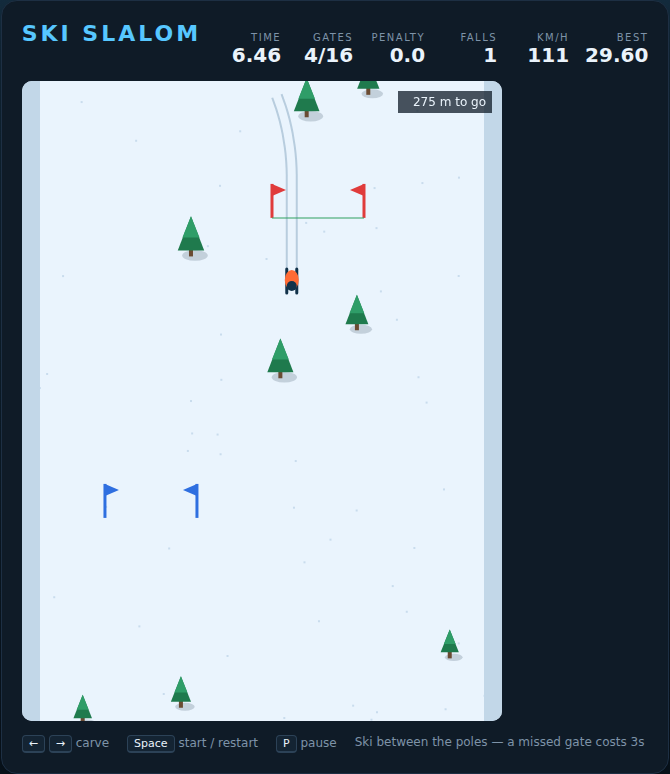
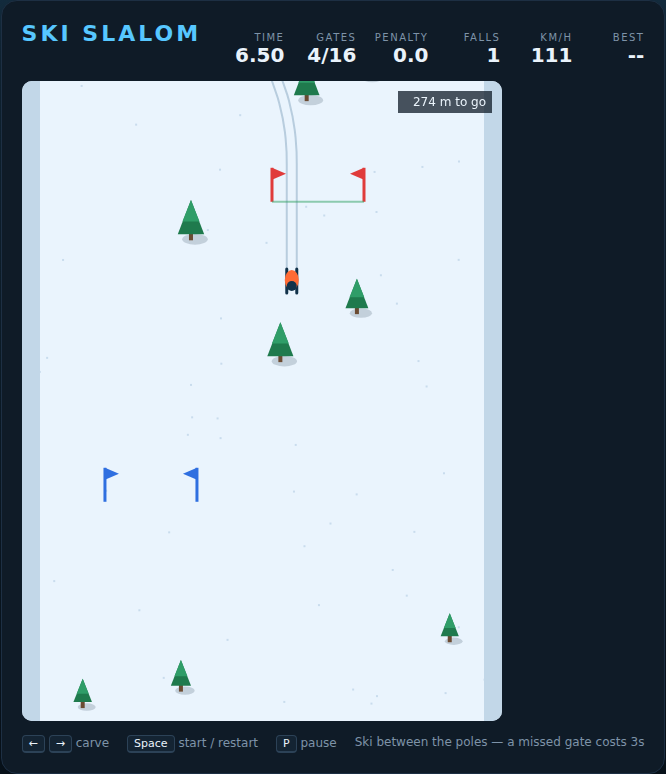
Polish Ski Slalom and mark it Complete
- Move the START banner label clear of the skier's line so it is readable
  on the idle screen.
- Keep a held steering key applying after a crash, so control resumes the
  moment the skier gets back up.
- Refresh the screenshot.

Verified with the full repository suite: 4020 Playwright tests passing.

Claude-Session: https://claude.ai/code/session_015CX9UYJMvmGeYKFERaFaMg

diff --git a/SkiSlalom/game.js b/SkiSlalom/game.js
@@ -296,9 +296,8 @@ function substep(h) {
         crashes++;
         crashTimer = CRASH_TIME;
         skier.speed = 0;
-        skier.heading = 0;
-        skier.turn = 0;
-    }
+        skier.heading = 0;      // you get back up facing down the hill, but a
+    }                           // key still held keeps steering on recovery
 
     if (skier.y >= FINISH_Y) {
         skier.y = FINISH_Y;
@@ -522,11 +521,9 @@ function drawBanner(y, camera, text, colour) {
     if (sy < -30 || sy > CANVAS_H + 30) return;
     ctx.fillStyle = colour;
     ctx.fillRect(0, sy - 12, CANVAS_W, 6);
-    ctx.fillStyle = '#0f1b27';
-    ctx.font = 'bold 14px "Segoe UI", system-ui, sans-serif';
-    ctx.textAlign = 'center';
-    ctx.fillText(text, CANVAS_W / 2, sy + 14);
-    ctx.textAlign = 'left';
+    ctx.fillStyle = '#12324a';
+    ctx.font = 'bold 13px "Segoe UI", system-ui, sans-serif';
+    ctx.fillText(text, EDGE_MARGIN + 10, sy - 20);   // clear of the skier's line
 }
 
 function drawFinish(camera) {

diff --git a/README.md b/README.md
@@ -113,7 +113,7 @@ For each new game, put it in a new folder. Each game should have its own README.
 | Marble Spiral | [MarbleSpiral/](MarbleSpiral/) | Complete |
 | Barrel Climb | [BarrelClimb/](BarrelClimb/) | Complete |
 | BurgerTime | [BurgerTime/](BurgerTime/) | Complete |
-| Ski Slalom | [SkiSlalom/](SkiSlalom/) | In Progress |
+| Ski Slalom | [SkiSlalom/](SkiSlalom/) | Complete |
 
 ## Playing
 
